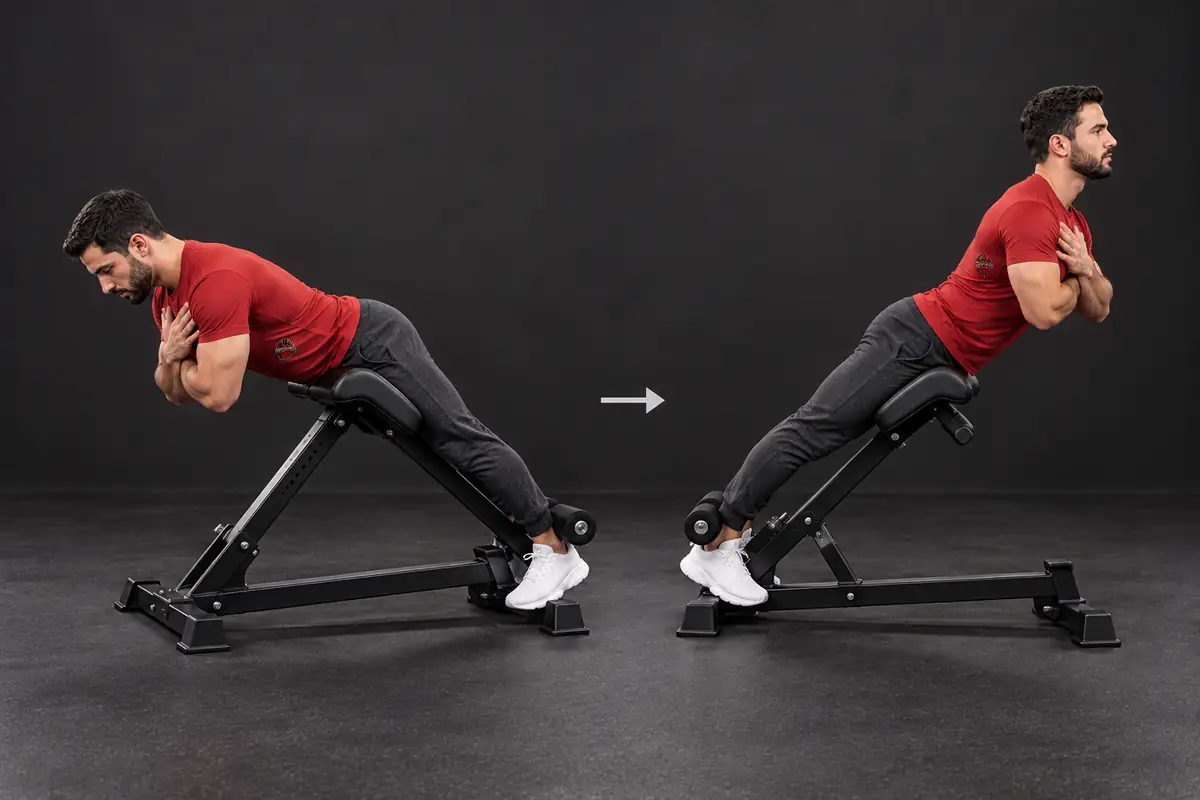
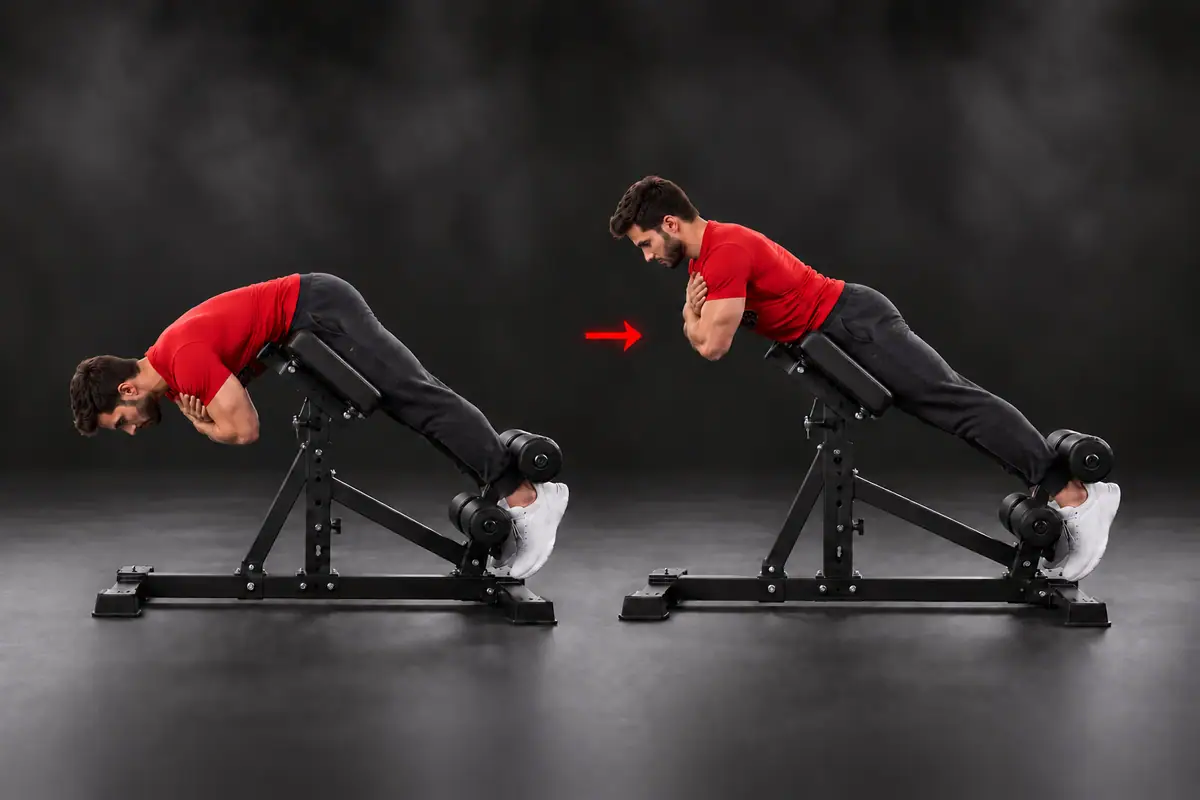
Pictures checked: 7 added, 2 sent back for a redo (v32)
Added after a full-size check: women's dumbbell bench press, fire hydrant
(men and women), frog pump (men and women), men's back extension and
women's chamber hold.

Back for a redo (REDO.md): men's barbell bench press (the bar runs along
the body and the far arm comes out of the stomach) and women's leg curl
(the pad presses on the front of the shins when the knees bend).

diff --git a/app/index.html b/app/index.html
@@ -13,10 +13,10 @@
 <link rel="manifest" href="manifest.webmanifest">
 <link rel="icon" type="image/png" sizes="192x192" href="icons/icon-192.png">
 <link rel="apple-touch-icon" href="icons/apple-touch-icon.png">
-<link rel="stylesheet" href="base.css?v=31">
-<link rel="stylesheet" href="glass.css?v=31">
-<link rel="stylesheet" href="training.css?v=31">
-<link rel="stylesheet" href="app.css?v=31">
+<link rel="stylesheet" href="base.css?v=32">
+<link rel="stylesheet" href="glass.css?v=32">
+<link rel="stylesheet" href="training.css?v=32">
+<link rel="stylesheet" href="app.css?v=32">
 </head>
 <body>
 <div class="app">
@@ -39,37 +39,37 @@
 </dialog>
 
 <script src="config.js"></script>
-<script src="i18n.js?v=31"></script>
-<script src="icons.js?v=31"></script>
-<script src="core.js?v=31"></script>
-<script src="training-data.js?v=31"></script>
-<script src="exercise-content.js?v=31"></script>
-<script src="exercise-media.js?v=31"></script>
-<script src="female-media.js?v=31"></script>
-<script src="body-model.js?v=31"></script>
-<script src="training.js?v=31"></script>
-<script src="interval-model.js?v=31"></script>
-<script src="conditioning-model.js?v=31"></script>
-<script src="hiit.js?v=31"></script>
-<script src="guided-model.js?v=31"></script>
-<script src="guided.js?v=31"></script>
-<script src="exercise-experience.js?v=31"></script>
-<script src="mobility.js?v=31"></script>
-<script src="membership-model.js?v=31"></script>
-<script src="membership.js?v=31"></script>
-<script src="routine-model.js?v=31"></script>
-<script src="routine.js?v=31"></script>
-<script src="exercise-navigation.js?v=31"></script>
-<script src="fight-data.js?v=31"></script>
-<script src="fight.js?v=31"></script>
-<script src="journal.js?v=31"></script>
-<script src="account.js?v=31"></script>
-<script src="premium.js?v=31"></script>
-<script src="retention.js?v=31"></script>
-<script src="recap.js?v=31"></script>
-<script src="coach.js?v=31"></script>
-<script src="reminders.js?v=31"></script>
-<script src="bodyplan.js?v=31"></script>
-<script src="shell.js?v=31"></script>
+<script src="i18n.js?v=32"></script>
+<script src="icons.js?v=32"></script>
+<script src="core.js?v=32"></script>
+<script src="training-data.js?v=32"></script>
+<script src="exercise-content.js?v=32"></script>
+<script src="exercise-media.js?v=32"></script>
+<script src="female-media.js?v=32"></script>
+<script src="body-model.js?v=32"></script>
+<script src="training.js?v=32"></script>
+<script src="interval-model.js?v=32"></script>
+<script src="conditioning-model.js?v=32"></script>
+<script src="hiit.js?v=32"></script>
+<script src="guided-model.js?v=32"></script>
+<script src="guided.js?v=32"></script>
+<script src="exercise-experience.js?v=32"></script>
+<script src="mobility.js?v=32"></script>
+<script src="membership-model.js?v=32"></script>
+<script src="membership.js?v=32"></script>
+<script src="routine-model.js?v=32"></script>
+<script src="routine.js?v=32"></script>
+<script src="exercise-navigation.js?v=32"></script>
+<script src="fight-data.js?v=32"></script>
+<script src="fight.js?v=32"></script>
+<script src="journal.js?v=32"></script>
+<script src="account.js?v=32"></script>
+<script src="premium.js?v=32"></script>
+<script src="retention.js?v=32"></script>
+<script src="recap.js?v=32"></script>
+<script src="coach.js?v=32"></script>
+<script src="reminders.js?v=32"></script>
+<script src="bodyplan.js?v=32"></script>
+<script src="shell.js?v=32"></script>
 </body>
 </html>

diff --git a/app/sw.js b/app/sw.js
@@ -3,14 +3,14 @@
    fetched fresh when online and falls back to the last copy offline.
    Bump VERSION whenever app files change so phones pick up the update. */
 
-const VERSION = 'fight-hub-v31';
+const VERSION = 'fight-hub-v32';
 const SHELL = [
   './', 'index.html', 'manifest.webmanifest',
-  'base.css?v=31', 'glass.css?v=31', 'training.css?v=31', 'app.css?v=31',
-  'config.js', 'i18n.js?v=31', 'icons.js?v=31', 'core.js?v=31', 'training-data.js?v=31', 'exercise-content.js?v=31', 'exercise-media.js?v=31', 'female-media.js?v=31', 'body-model.js?v=31',
-  'training.js?v=31', 'interval-model.js?v=31', 'conditioning-model.js?v=31', 'hiit.js?v=31', 'guided-model.js?v=31', 'guided.js?v=31',
-  'exercise-experience.js?v=31', 'mobility.js?v=31', 'membership-model.js?v=31', 'membership.js?v=31', 'routine-model.js?v=31',
-  'routine.js?v=31', 'exercise-navigation.js?v=31', 'fight-data.js?v=31', 'fight.js?v=31', 'journal.js?v=31', 'account.js?v=31', 'premium.js?v=31', 'retention.js?v=31', 'recap.js?v=31', 'coach.js?v=31', 'reminders.js?v=31', 'bodyplan.js?v=31', 'shell.js?v=31',
+  'base.css?v=32', 'glass.css?v=32', 'training.css?v=32', 'app.css?v=32',
+  'config.js', 'i18n.js?v=32', 'icons.js?v=32', 'core.js?v=32', 'training-data.js?v=32', 'exercise-content.js?v=32', 'exercise-media.js?v=32', 'female-media.js?v=32', 'body-model.js?v=32',
+  'training.js?v=32', 'interval-model.js?v=32', 'conditioning-model.js?v=32', 'hiit.js?v=32', 'guided-model.js?v=32', 'guided.js?v=32',
+  'exercise-experience.js?v=32', 'mobility.js?v=32', 'membership-model.js?v=32', 'membership.js?v=32', 'routine-model.js?v=32',
+  'routine.js?v=32', 'exercise-navigation.js?v=32', 'fight-data.js?v=32', 'fight.js?v=32', 'journal.js?v=32', 'account.js?v=32', 'premium.js?v=32', 'retention.js?v=32', 'recap.js?v=32', 'coach.js?v=32', 'reminders.js?v=32', 'bodyplan.js?v=32', 'shell.js?v=32',
   'assets/fight-hub-logo.png', 'icons/icon-192.png', 'icons/apple-touch-icon.png'
 ];
 

diff --git a/app/female-media.js b/app/female-media.js
@@ -8,12 +8,12 @@ const FemaleMedia = {
   movements: new Set([
     '90-90', 'active-front-raise', 'active-side-raise', 'ankle', 'arm-circles', 'assisted-pull', 'b-stance-thrust', 'back-extension',
     'back-squat', 'backpack-hinge', 'backpack-row', 'backpack-squat', 'bag-work', 'band-curl', 'band-row', 'band-walk',
-    'barbell-curl', 'barbell-row', 'bear-crawl', 'bear-hug-escape', 'biceps-curl', 'bike', 'bird-dog', 'body-shots',
+    'barbell-curl', 'barbell-row', 'bear-crawl', 'bear-hug-escape', 'bench-press', 'biceps-curl', 'bike', 'bird-dog', 'body-shots',
     'bottle-carry', 'bottle-curl', 'bottle-raise', 'breakfall', 'bridge', 'bridge-march', 'bridge-roll', 'bulgarian-split',
-    'burpee', 'butt-kicks', 'butterfly-stretch', 'cable-kickback', 'cable-row', 'calf', 'calf-stretch', 'carry',
+    'burpee', 'butt-kicks', 'butterfly-stretch', 'cable-kickback', 'cable-row', 'calf', 'calf-stretch', 'carry', 'chamber-hold',
     'chair-rise', 'check', 'chest-machine', 'chest-stretch', 'clamshell', 'cossack', 'couch-stretch', 'cross',
-    'curtsy-lunge', 'db-row', 'dead-bug', 'deadlift', 'dip', 'donkey-kick', 'easy-run', 'fence',
-    'floor-press', 'frog', 'front-split-slide', 'glute-stretch', 'goblet', 'granby-roll', 'ground-strikes', 'gyaku-zuki',
+    'curtsy-lunge', 'db-row', 'dead-bug', 'deadlift', 'dip', 'donkey-kick', 'easy-run', 'fence', 'fire-hydrant',
+    'floor-press', 'frog', 'frog-pump', 'front-split-slide', 'glute-stretch', 'goblet', 'granby-roll', 'ground-strikes', 'gyaku-zuki',
     'half-split', 'hammer-curl', 'hamstring-stretch', 'hand-release-press', 'hard-run', 'heel-digs', 'heel-taps', 'high-knees',
     'hill-sprint', 'hinge', 'hip-abduction', 'hip-flexor-stretch', 'hip-openers', 'hip-thrust', 'horse-bow', 'horse-stance',
     'inchworm', 'incline-press', 'jab', 'jog-in-place', 'karate-blocks', 'kb-swing', 'knee-straight', 'kneeling-press',

diff --git a/app/exercise-media.js b/app/exercise-media.js
@@ -6,6 +6,6 @@ ExerciseMedia.add('leg-curl');
 ['band-walk', 'bulgarian-split', 'cable-kickback', 'curtsy-lunge', 'donkey-kick', 'hip-abduction', 'kb-swing', 'single-leg-bridge', 'single-leg-rdl', 'step-up', 'sumo-squat', 'walking-lunge', 'back-extension', 'b-stance-thrust', 'pull-through'].forEach(id=>ExerciseMedia.add(id));
 // Gym lifts (checked 2 Oct 2026; the barbell bench press picture is being redone)
 ['back-squat', 'barbell-curl', 'barbell-row', 'deadlift', 'dip', 'overhead-press', 'pull-up'].forEach(id=>ExerciseMedia.add(id));
-// Being redone: shows the wrong movement
-ExerciseMedia.delete('fire-hydrant');
+// Redone and checked 3 Oct 2026
+['fire-hydrant', 'frog-pump'].forEach(id=>ExerciseMedia.add(id));
 if(typeof module!=='undefined')module.exports=ExerciseMedia;

diff --git a/image-requests/REDO.md b/image-requests/REDO.md
@@ -1,31 +1,40 @@
-# Pictures: what's left (checked 2 October 2026)
+# Pictures: what's left (checked 3 October 2026)
 
-Every picture in the app has been re-checked at full size for anatomy (arm and leg count, limb length, joints) and technique. **172 of 179 exercises and drills now have a women's version, and the self-defence cover and drills are in.** Please don't remake anything that isn't listed here.
+Every picture in the app has been checked at full size for anatomy (arm and leg
+count, limb length, joints) and technique.
 
-## 1. Redo (7)
+These went in on 3 October:
+- women's dumbbell bench press;
+- the fire hydrant, men and women;
+- the frog pump, men and women;
+- the men's back extension;
+- the women's chamber hold.
 
-Remake each one with the same file name, using its prompt (`WOMEN-PROMPTS.md`, `GYM-LIFTS-PROMPTS.md`) plus the correction. **Before saving, count arms, legs, hands and equipment, and check limb lengths look normal.**
+**Please don't remake anything that isn't listed here.**
+
+## 1. Redo (2)
+
+Remake each one with the same file name, using its prompt (`GYM-LIFTS-PROMPTS.md`, `WOMEN-PROMPTS.md`) plus the correction. **Before saving, count arms, legs, hands and equipment, and check that both arms come out of the shoulders.**
 
 | File | What's wrong | What it must show |
 |---|---|---|
-| `barbell-bench.png` | His arms are far too long, and both hands are bunched at one end of the bar. | Normal arm length. Hands evenly placed, just wider than the shoulders. The bar over the shoulders at the top and touching the lower chest at the bottom. |
-| `bench-press-f.png` | She holds **three** dumbbells. | **One dumbbell in each hand**, two in total, in both poses. |
-| `leg-curl-f.png` | It shows a leg extension (pad on top of the shins, legs straight in both poses). | A **seated leg curl**: the roller pad **behind** the lower legs just above the heels. Left: legs almost straight. Right: knees bent to about 90°, the pad pushed down and back under the seat. |
-| `fire-hydrant.png` (men) | The leg kicks **backwards**, which is a donkey kick. | Knee stays bent at 90° and lifts **out to the side** to hip height. Use the approved women's picture as the guide. |
-| `frog-pump.png` / `frog-pump-f.png` | Now a seated butterfly stretch with no hip lift. | **Lying flat on the back** (head and shoulders on the floor), soles of the feet together and knees wide open. Left: hips on the floor. Right: **hips lifted high**, knees still open. Camera: high three-quarter view from the side. |
-| `back-extension.png` (men, low priority) | The bench and the man face opposite directions in the two poses. | Same direction and camera angle in both poses. |
+| `barbell-bench.png` (men) | The bar runs along the length of his body instead of across his chest. In the lowered pose his near hand is over his hips. In the raised pose his far arm comes out of his stomach. | **Copy the approved women's version (`barbell-bench-f.png`): the same camera angle and layout.** The bar runs **across** the chest, with both hands directly above the shoulders, just wider than shoulder width. Lowered: the bar touches the lower chest, with elbows under the bar. Raised: arms straight up over the shoulders. Both arms come out of the shoulders. |
+| `leg-curl-f.png` (women) | In the bent-knee pose the roller pad presses on the **front** of her shins, with her feet behind it. That's a leg extension, not a curl. | Keep the straight-leg pose as it is: it's correct, with the pad behind the lower legs just above the heels. In the bent-knee pose the pad stays **behind the heels and lower calves**, pushed down and back under the seat. Her feet are **in front of** the pad and the knees are bent to about 90°. |
 
 ## 2. Waiting on a redo
 
-These women's pictures are approved and go in as soon as the men's version above is fixed: `barbell-bench-f.png`, `fire-hydrant-f.png`.
+`barbell-bench-f.png` (women) is approved. It goes in as soon as the men's version above is fixed.
 
-## 3. Not made yet: women's versions (5)
+## 3. Not made yet: women's versions (4)
 
-`clinch-knees-f.png`, `elbows-f.png`, `high-kick-f.png`, `chamber-hold-f.png`, `front-kick-f.png` (prompts in `WOMEN-PROMPTS.md`, section 5).
+`clinch-knees-f.png`, `elbows-f.png`, `high-kick-f.png` and `front-kick-f.png`. Their prompts are in `WOMEN-PROMPTS.md`, section 5.
 
 ## Common faults to check before saving
 
-- Extra or missing arms, hands or dumbbells; arms or legs unnaturally long.
+- Extra or missing arms, hands or dumbbells.
+- Arms or legs that are unnaturally long, or an arm that doesn't start at the shoulder.
+- A barbell that lies along the body instead of across it.
+- Machine pads on the wrong side of the limb (leg curl: behind the heels; leg extension: on the front of the shins).
 - The camera angle, direction or equipment changing between the two poses.
 - For alternating moves, the other side shown in the second pose.
 - Landscape 3:2 (for example 1536 x 1024).
